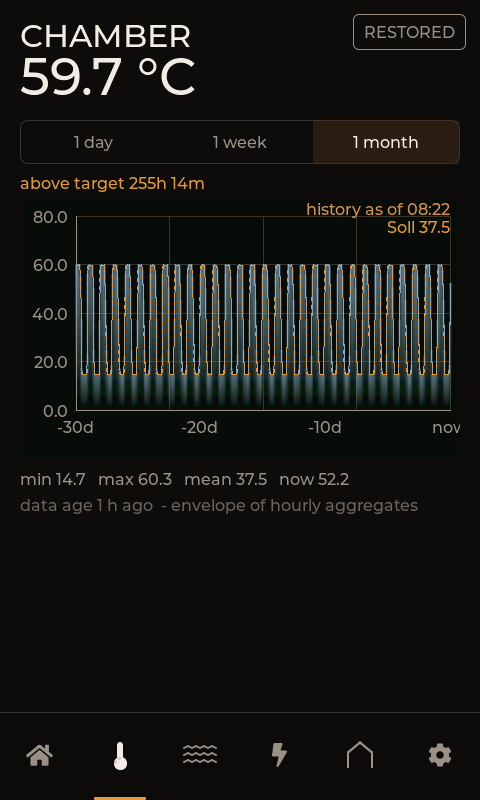
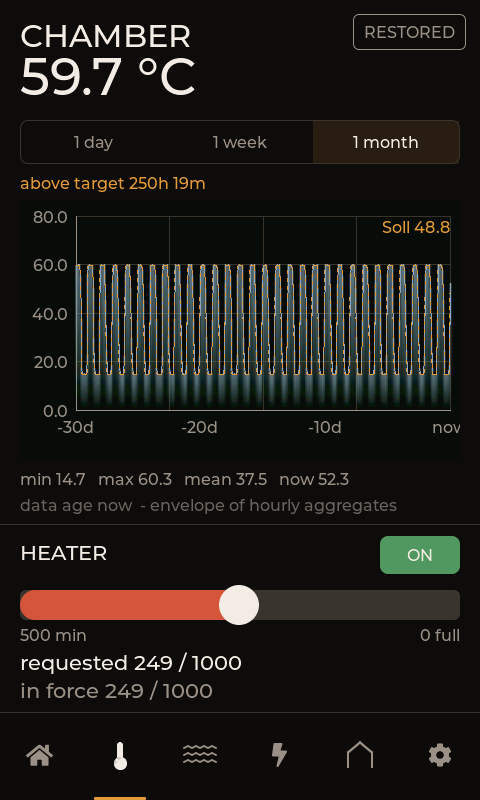
28_hauszentrale: data age uses the newest sample, not the bucket (S23.23)

Changed region(s): [[0.0312, 0.625, 0.9688, 0.875], [0.625, 0.25, 0.9375, 0.3125], [0.3125, 0.2188, 0.4375, 0.25]]

diff --git a/ESP32/28_hauszentrale/src/haus_chart.cpp b/ESP32/28_hauszentrale/src/haus_chart.cpp
@@ -103,7 +103,8 @@ static int16_t clamp16(int32_t value) {
   return (int16_t)value;
 }
 
-static void add_value(ChartColumn* col, int slot, int32_t value) {
+static void add_value(ChartColumn* col, int slot, int32_t value,
+                      uint32_t epoch, uint32_t* newest) {
   const int16_t v = clamp16(value);
   if (col->n[slot] == 0) {
     col->mn[slot] = v;
@@ -114,10 +115,11 @@ static void add_value(ChartColumn* col, int slot, int32_t value) {
   }
   col->sum[slot] += value;
   col->n[slot]++;
+  if (epoch > *newest) *newest = epoch;
 }
 
 static void add_rollup(ChartColumn* col, int slot, const RollupColumn* r,
-                       int src) {
+                       int src, uint32_t epoch, uint32_t* newest) {
   if (r->n[src] == 0) return;
   const int16_t mn = clamp16(r->mn[src]);
   const int16_t mx = clamp16(r->mx[src]);
@@ -130,6 +132,7 @@ static void add_rollup(ChartColumn* col, int slot, const RollupColumn* r,
   }
   col->sum[slot] += r->sum[src];
   col->n[slot] += r->n[src];
+  if (epoch > *newest) *newest = epoch;
 }
 
 static void mark_gaps(ChartColumn* cols, int series_b) {
@@ -140,12 +143,13 @@ static void mark_gaps(ChartColumn* cols, int series_b) {
   }
 }
 
-void haus_chart_build_samples(ChartColumn* cols, uint32_t t0, uint32_t t1,
-                              haus_chart_sample_reader reader, void* ctx,
-                              size_t total, int series_a, int series_b) {
-  if (!cols || !reader) return;
-  if (!ensure_chunks()) return;
+uint32_t haus_chart_build_samples(ChartColumn* cols, uint32_t t0, uint32_t t1,
+                                  haus_chart_sample_reader reader, void* ctx,
+                                  size_t total, int series_a, int series_b) {
+  if (!cols || !reader) return 0;
+  if (!ensure_chunks()) return 0;
   reset_columns(cols, t0, t1);
+  uint32_t newest = 0;
 
   for (size_t first = 0; first < total;) {
     const size_t want = total - first;
@@ -162,24 +166,26 @@ void haus_chart_build_samples(ChartColumn* cols, uint32_t t0, uint32_t t1,
 
       int32_t value = 0;
       if (series_a >= 0 && sample_value(s, series_a, &value)) {
-        add_value(col, 0, value);
+        add_value(col, 0, value, s->epoch, &newest);
       }
       if (series_b >= 0 && sample_value(s, series_b, &value)) {
-        add_value(col, 1, value);
+        add_value(col, 1, value, s->epoch, &newest);
       }
     }
     first += got;
   }
 
   mark_gaps(cols, series_b);
+  return newest;
 }
 
-void haus_chart_build_rollup(ChartColumn* cols, uint32_t t0, uint32_t t1,
-                             haus_chart_rollup_reader reader, void* ctx,
-                             size_t total, int series_a, int series_b) {
-  if (!cols || !reader) return;
-  if (!ensure_chunks()) return;
+uint32_t haus_chart_build_rollup(ChartColumn* cols, uint32_t t0, uint32_t t1,
+                                 haus_chart_rollup_reader reader, void* ctx,
+                                 size_t total, int series_a, int series_b) {
+  if (!cols || !reader) return 0;
+  if (!ensure_chunks()) return 0;
   reset_columns(cols, t0, t1);
+  uint32_t newest = 0;
 
   for (size_t first = 0; first < total;) {
     const size_t want = total - first;
@@ -195,11 +201,12 @@ void haus_chart_build_rollup(ChartColumn* cols, uint32_t t0, uint32_t t1,
       const size_t col_idx = column_for(t, t0, t1);
       ChartColumn* col = &cols[col_idx];
 
-      if (series_a >= 0) add_rollup(col, 0, r, series_a);
-      if (series_b >= 0) add_rollup(col, 1, r, series_b);
+      if (series_a >= 0) add_rollup(col, 0, r, series_a, t, &newest);
+      if (series_b >= 0) add_rollup(col, 1, r, series_b, t, &newest);
     }
     first += got;
   }
 
   mark_gaps(cols, series_b);
+  return newest;
 }

diff --git a/ESP32/28_hauszentrale/src/ui/haus_ui.c b/ESP32/28_hauszentrale/src/ui/haus_ui.c
@@ -1375,6 +1375,7 @@ static bool s_chart_force = true;
 static uint32_t s_chart_last_sample;
 static bool s_chart_hourly;
 static uint32_t s_chart_t0, s_chart_t1;
+static uint32_t s_chart_newest;
 
 static void ui_show_screen(int screen);
 static void ui_pop(void);
@@ -1591,14 +1592,15 @@ static void chart_build(void) {
   chart_cfg_for(g_detail_screen, &cfg);
   const bool hourly = (g_range != UI_RANGE_DAY) && cfg.hourly_ok;
 
+  uint32_t newest_epoch = 0;
   if (hourly) {
     const size_t total = (size_t)((t1 - t0) / 3600u) + 1u;
-    haus_chart_build_rollup(s_cols, t0, t1, chart_rollup_reader, (void*)&t0,
-                            total, cfg.a, cfg.b);
+    newest_epoch = haus_chart_build_rollup(
+        s_cols, t0, t1, chart_rollup_reader, (void*)&t0, total, cfg.a, cfg.b);
   } else {
-    const size_t total = (size_t)((t1 - t0) / 60u) + 1u;
-    haus_chart_build_samples(s_cols, t0, t1, chart_sample_reader, (void*)&t0,
-                             total, cfg.a, cfg.b);
+    const size_t total = (size_t)(t1 - t0) / 60u + 1u;
+    newest_epoch = haus_chart_build_samples(
+        s_cols, t0, t1, chart_sample_reader, (void*)&t0, total, cfg.a, cfg.b);
   }
 
   chart_build_target(t0, t1, hourly);
@@ -1606,6 +1608,7 @@ static void chart_build(void) {
   s_chart_hourly = hourly;
   s_chart_t0 = t0;
   s_chart_t1 = t1;
+  s_chart_newest = newest_epoch;
   s_chart_last_sample = gui_history_newest_epoch();
   s_chart_force = false;
 
@@ -1998,11 +2001,11 @@ static void chart_update_readouts(void) {
   }
   (void)have_now;
 
-  uint32_t newest = 0;
-  for (size_t i = 0; i < HAUS_CHART_COLUMNS; i++) {
-    if (s_cols[i].n[0] || (cfg.b >= 0 && s_cols[i].n[1]) ||
-        (cfg.use_target && s_target_n[i])) {
-      newest = s_cols[i].t;
+  uint32_t newest = s_chart_newest;
+  if (!newest) {
+    /* A target-only range has no sample series; fall back to its column. */
+    for (size_t i = 0; i < HAUS_CHART_COLUMNS; i++) {
+      if (cfg.use_target && s_target_n[i]) newest = s_cols[i].t;
     }
   }
   if (!newest) {

diff --git a/ESP32/28_hauszentrale/host_harness/src/haus_gui_mock.cpp b/ESP32/28_hauszentrale/host_harness/src/haus_gui_mock.cpp
@@ -39,7 +39,10 @@
 /* ─── Time helpers ──────────────────────────────────────────────────────────
  */
 
-/* Simulated "current time" — advances 1 second per gui_update_state() call.
+/* Simulated "current time" — fixed so every rendered screen sees the same
+ * clock. It used to advance 1 s per gui_update_state() call, but the history
+ * is seeded once, so later screens (LIVING ROOM) showed a bogus "data age
+ * 3 min ago" that was an artefact of the harness, not the device.
  * Start at 08:00 on Oct 14, 2024 (epoch = 1728892800). */
 static uint32_t g_sim_time = 1728892800u; /* 2024-10-14 08:00:00 UTC */
 static const uint32_t DAY_SECONDS = 86400u;
@@ -187,7 +190,9 @@ static void init_history(void) {
 
   /* Generate 30 days of synthetic data starting from 30 days ago. */
   uint32_t now = g_sim_time - (g_sim_time % 60u);
-  uint32_t start_epoch = now - ((uint32_t)MAX_HISTORY_DAYS * DAY_SECONDS);
+  /* Exactly MAX_HISTORY_SAMPLES minute records, ending at `now`. */
+  uint32_t start_epoch =
+      now - ((uint32_t)(MAX_HISTORY_SAMPLES - 1) * 60u);
 
   int idx = 0;
   for (uint32_t t = start_epoch; t <= now; t += 60) {
@@ -296,8 +301,7 @@ void gui_update_state(void) {
   CanState& can = g_can.write();
   ClimateState& climate = g_climate.write();
 
-  /* Update simulated time (advance ~1 second per call). */
-  g_sim_time += 1;
+  /* Keep the simulated clock fixed; see the comment at g_sim_time. */
 
   /* Populate the CAN producer block from mock functions. */
   can.timestamp = g_sim_time;

diff --git a/ESP32/28_hauszentrale/include/haus_chart.h b/ESP32/28_hauszentrale/include/haus_chart.h
@@ -57,13 +57,15 @@ typedef size_t (*haus_chart_rollup_reader)(void *ctx, size_t first,
 
 /* Build a 440-column envelope from raw minute samples or pre-aggregated
  * rollup columns. series_a/series_b are source series indices (0…5); pass -1
- * for no second series. */
-void haus_chart_build_samples(ChartColumn *cols, uint32_t t0, uint32_t t1,
-                              haus_chart_sample_reader reader, void *ctx,
-                              size_t total, int series_a, int series_b);
-void haus_chart_build_rollup(ChartColumn *cols, uint32_t t0, uint32_t t1,
-                             haus_chart_rollup_reader reader, void *ctx,
-                             size_t total, int series_a, int series_b);
+ * for no second series. Returns the newest source epoch that contributed to
+ * either series (0 if none), so the UI can report data age from the sample
+ * itself rather than from the coarser chart column. */
+uint32_t haus_chart_build_samples(ChartColumn *cols, uint32_t t0, uint32_t t1,
+                                  haus_chart_sample_reader reader, void *ctx,
+                                  size_t total, int series_a, int series_b);
+uint32_t haus_chart_build_rollup(ChartColumn *cols, uint32_t t0, uint32_t t1,
+                                 haus_chart_rollup_reader reader, void *ctx,
+                                 size_t total, int series_a, int series_b);
 
 #ifdef __cplusplus
 }

diff --git a/ESP32/28_hauszentrale/docs/todos.md b/ESP32/28_hauszentrale/docs/todos.md
@@ -4,7 +4,7 @@ Derived from `docs/whitepaper.md` rev 1.6. Order: board first, then the macOS
 environment, then Deliverable A (`tpl_waveshare_lcd7`), then the project.
 Every item names the check that closes it.
 
-348 items (42 open). Tick boxes as work lands.
+349 items (42 open). Tick boxes as work lands.
 
 ## S0 · BENCH — the two things only the hardware can answer
 
@@ -414,6 +414,7 @@ figures are Soll values; write them that way in the UI and the docs.
 - [x] S23.20 Show SPIFFS ring statistics on the Storage panel and in `/sd/status`: total/used/free, ring hours present, oldest/newest hour — Test: with no card the panel shows the ring figures and they match `/sd/status` — Done: `haus_history_ring_stats()` caches SPIFFS total/used, ring capacity, non-zero hours and oldest/newest; the Storage panel renders `SPIFFS 799 kB of 3.4 MB`, `ring 1 of 8760 hours`, and the oldest/newest lines. `gui_storage_refresh()` now publishes immediately, so the first `/sd/status` after boot matches: `"spiffs_total":3546881,"spiffs_used":818511,"ring_bytes":805920`.
 - [x] S23.21 Replay the card's history when a card is inserted after a card-less boot, and show occupancy evidence — Test: insert a card with `rollup.bin`/day files and the week/month charts show it without a reboot; STORAGE shows how many entries exist and since when — Done: the SD watchdog calls `haus_history_restore()` after a verified mount/remount and requests a redraw; the log reads `restored 4 columns from SD rollup` and `boot restore: 4 columns`. STORAGE now renders `today N / 1440 last <time>`, `rollup N / 744 since <time>`, `restored N columns`, and `/sd/status` carries `l1_count`, `l2_count`, `l1_first/last`, `l2_first/last`, `restored`. Verified on the card: `l1_count` rose 3 → 5 in 70 s while `l2_count` stayed 5, so sampling and restore are both live.
 - [x] S23.22 Living-room samples must not inherit CAN staleness — Test: with CAN off, `stale_mask` clears for living/humidity and the living chart plots new SHT45 points — Done: `climate.last_update_epoch` is now the wall clock at the SHT45 read, not `can.timestamp`; with CAN off the stale mask is `0x00` and `l1_count` grows. Restored samples recorded before this fix may still carry the old stale bits; only new samples plot.
+- [x] S23.23 Report data age from the newest contributing sample, not the chart bucket start — Test: LIVING ROOM says `data age now` while samples are current and only ages after they stop — Done: `haus_chart_build_samples`/`haus_chart_build_rollup` return the newest source epoch and the detail screen uses it. The 440 columns span 86 400 s, so a bucket start was up to 3 min 16 s old and made fresh data look stale. The host mock's history now ends at the simulated current minute.
 
 ## S24 · CAN ENABLE SWITCH (boot sequence, N19)
 
